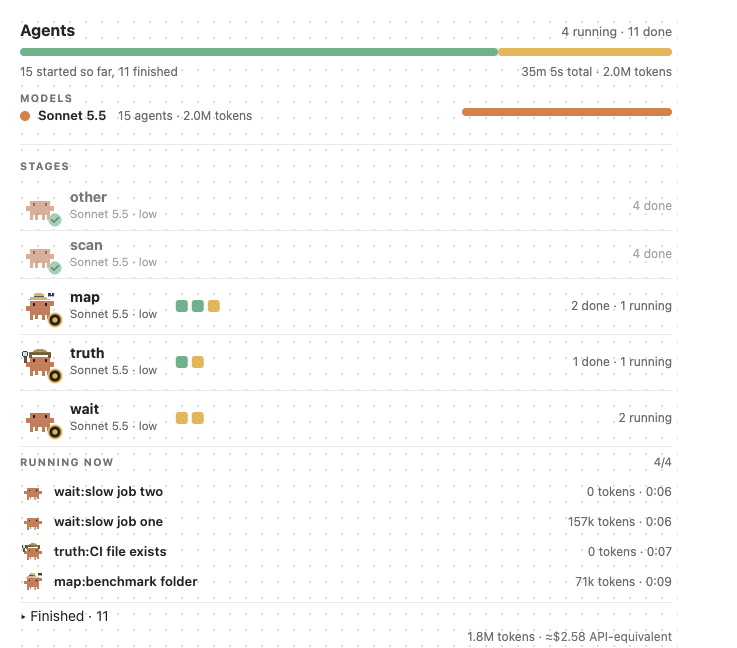
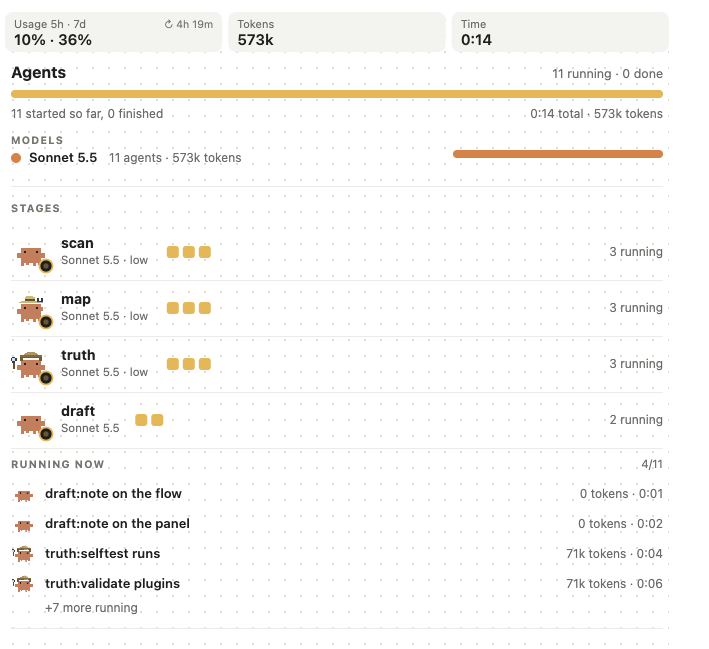
README: new grouped-view screenshot (eleven agents running, usage tile with the reset countdown)

diff --git a/README.md b/README.md
@@ -135,10 +135,10 @@ Every agent in the panel is a small animated pixel crab, and its costume follows
   <img src="assets/duo-task.svg" alt="Each task: brief, built by Sonnet, checked by a fresh checker, reviewed by Opus, accepted. Failures go back with a defect list, max two attempts, Opus as a worker only with your approval" width="100%">
 </p>
 
-Sonnet does the volume and Opus is a gate. Up to 2 tasks skip both Opus calls; 3 to 4 low-risk tasks skip the plan check and keep one final review. Two attempts per task, a checker that did not write the code, and Opus as a worker only if you say yes. For big fan-outs the panel switches to a grouped view, here while four of fifteen agents were still running (a real screenshot taken before the header tiles and the current-run counts were added, so its totals include earlier agents):
+Sonnet does the volume and Opus is a gate. Up to 2 tasks skip both Opus calls; 3 to 4 low-risk tasks skip the plan check and keep one final review. Two attempts per task, a checker that did not write the code, and Opus as a worker only if you say yes. For big fan-outs the panel switches to a grouped view, here with eleven agents running at once in four stages (a real screenshot):
 
 <p align="center">
-  <img src="assets/duo-panel-grouped.png" alt="The grouped panel view with fifteen agents, four still running: the model mix, one row per stage (other, scan, map, truth, wait) with its crab and counts, a Running now list, and the Finished list folded away" width="737">
+  <img src="assets/duo-panel-grouped.png" alt="The grouped panel view with eleven agents running in four stages: the Usage tile shows 10% of the 5-hour window and 36% of the weekly one with a countdown to the reset, then tokens and time; below, the model mix, one row per stage (scan, map, truth, draft) with its crab and a square per agent, and a Running now list with seven more running" width="700">
 </p>
 
 | Effort | Used for |
